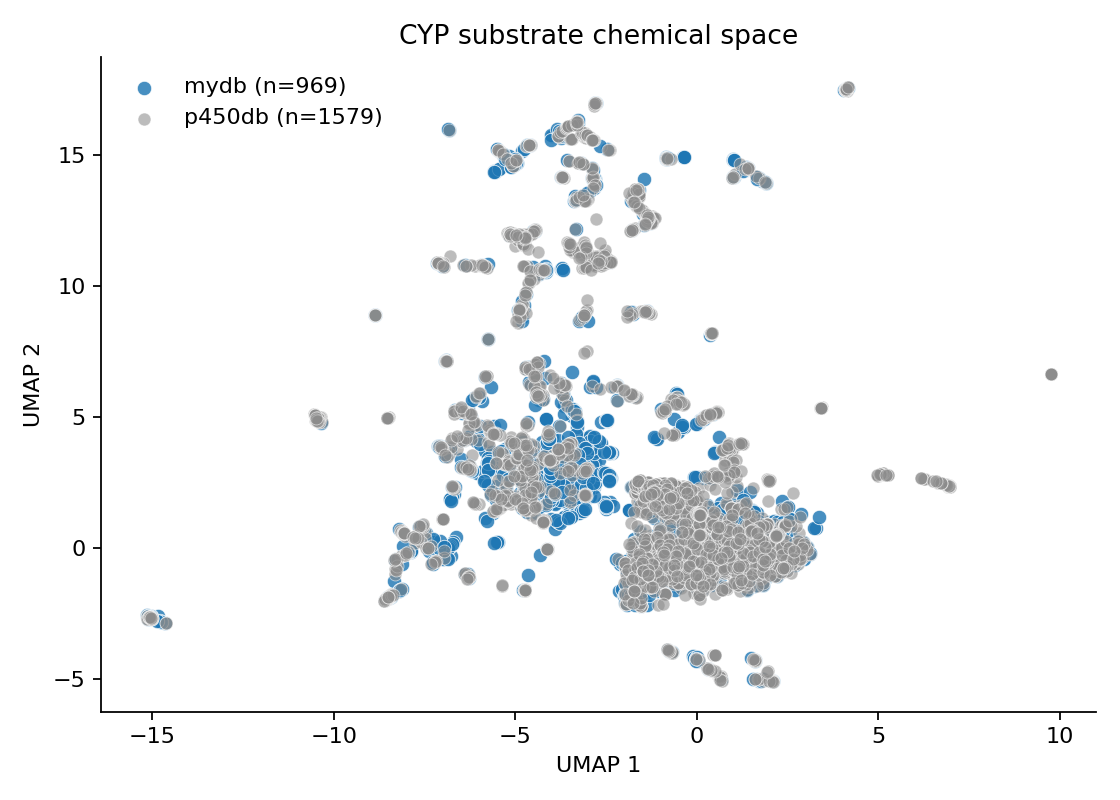
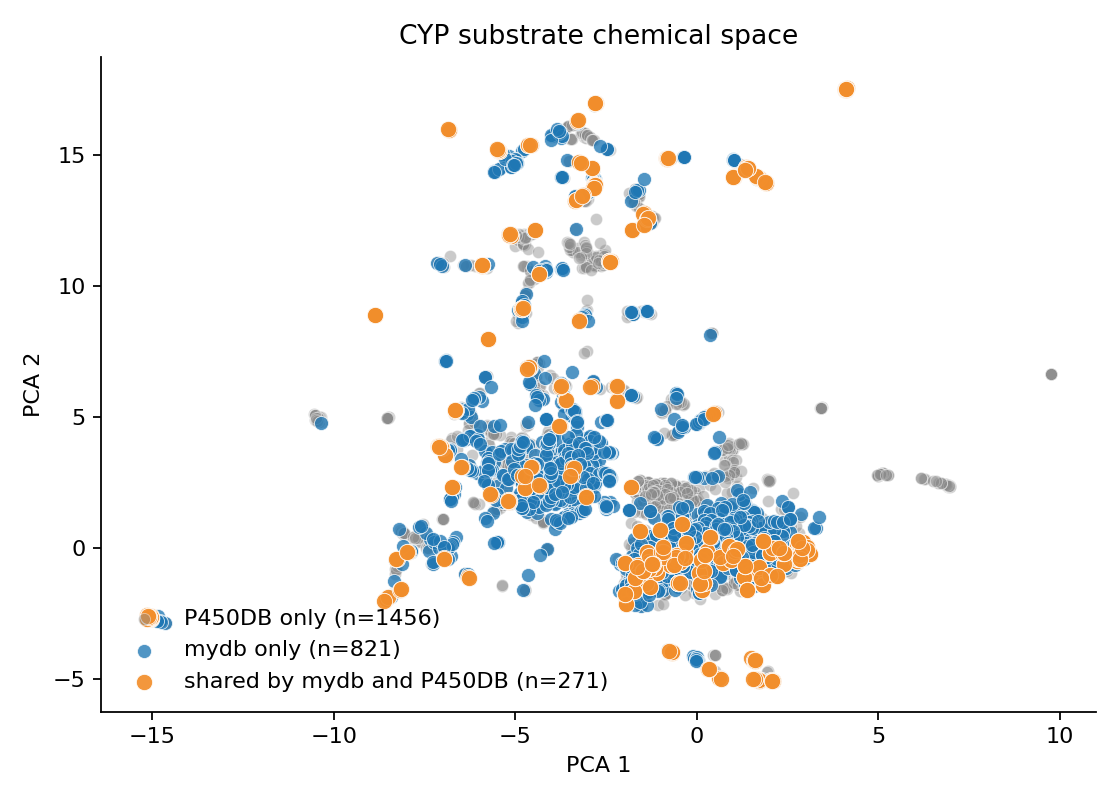
feat: highlight shared compounds in PCA demo plot

diff --git a/src/cypchemspace/visualize.py b/src/cypchemspace/visualize.py
@@ -14,7 +14,14 @@ import pandas as pd
 LABEL_COLORS = {
     "mydb": "#1f77b4",
     "p450db": "#8c8c8c",
+    "shared": "#f28e2b",
 }
+
+PLOT_LAYERS = (
+    ("p450db", "P450DB only", 30, 0.46, 1),
+    ("mydb", "mydb only", 40, 0.78, 2),
+    ("shared", "shared by mydb and P450DB", 54, 0.92, 3),
+)
 
 
 def plot_embedding(
@@ -24,8 +31,10 @@ def plot_embedding(
     y_col: str = "umap_y",
     label_col: str = "label",
     title: str = "CYP substrate chemical space",
+    x_label: str = "UMAP 1",
+    y_label: str = "UMAP 2",
 ) -> Path:
-    """Write a publication-style scatter plot for the two-class embedding."""
+    """Write a scatter plot with shared compounds drawn on the top layer."""
 
     for column in (x_col, y_col, label_col):
         if column not in table.columns:
@@ -34,25 +43,60 @@ def plot_embedding(
     output = Path(output_path)
     output.parent.mkdir(parents=True, exist_ok=True)
 
+    plot_table = table.copy()
+    plot_table["_plot_group"] = assign_plot_groups(plot_table, label_col=label_col)
+
     fig, ax = plt.subplots(figsize=(7, 5), dpi=160)
-    for label, group in table.groupby(label_col):
+    for group_name, legend_label, size, alpha, zorder in PLOT_LAYERS:
+        group = plot_table[plot_table["_plot_group"] == group_name]
+        if group.empty:
+            continue
         ax.scatter(
             group[x_col],
             group[y_col],
-            s=42 if label == "mydb" else 34,
-            c=LABEL_COLORS.get(str(label), "#333333"),
-            label=f"{label} (n={len(group)})",
-            alpha=0.82 if label == "mydb" else 0.58,
+            s=size,
+            c=LABEL_COLORS[group_name],
+            label=f"{legend_label} (n={len(group)})",
+            alpha=alpha,
             edgecolors="white",
             linewidths=0.4,
+            zorder=zorder,
         )
 
     ax.set_title(title)
-    ax.set_xlabel("UMAP 1")
-    ax.set_ylabel("UMAP 2")
+    ax.set_xlabel(x_label)
+    ax.set_ylabel(y_label)
     ax.legend(frameon=False)
     ax.spines[["top", "right"]].set_visible(False)
     fig.tight_layout()
     fig.savefig(output)
     plt.close(fig)
     return output
+
+
+def assign_plot_groups(table: pd.DataFrame, label_col: str = "label") -> pd.Series:
+    """Assign plotting groups so shared compounds can be highlighted.
+
+    Shared compounds are identified by `std_inchikey` when the same key appears
+    under both `mydb` and `p450db`. If that column is absent, rows fall back to
+    their source label.
+    """
+
+    labels = table[label_col].astype(str).str.lower()
+    groups = labels.where(labels.isin(["mydb", "p450db"]), "p450db")
+
+    if "std_inchikey" not in table.columns:
+        return groups
+
+    keys = table["std_inchikey"].astype(str).str.strip()
+    valid = keys != ""
+    label_sets = labels[valid].groupby(keys[valid]).agg(lambda values: set(values))
+    shared_keys = {
+        key
+        for key, label_set in label_sets.items()
+        if {"mydb", "p450db"}.issubset(label_set)
+    }
+    if not shared_keys:
+        return groups
+
+    return groups.mask(keys.isin(shared_keys), "shared")

diff --git a/tests/test_visualize.py b/tests/test_visualize.py
@@ -1,0 +1,16 @@
+import pandas as pd
+
+from cypchemspace.visualize import assign_plot_groups
+
+
+def test_assign_plot_groups_marks_shared_inchikey_rows():
+    table = pd.DataFrame(
+        {
+            "std_inchikey": ["SHARED", "SHARED", "MYDB_ONLY", "P450_ONLY"],
+            "label": ["mydb", "p450db", "mydb", "p450db"],
+        }
+    )
+
+    groups = assign_plot_groups(table)
+
+    assert groups.tolist() == ["shared", "shared", "mydb", "p450db"]

diff --git a/src/cypchemspace/cli.py b/src/cypchemspace/cli.py
@@ -70,7 +70,11 @@ def run_analyze(args: argparse.Namespace) -> int:
 
     embedded_table.to_csv(out_dir / "embedding.csv", index=False)
     write_summary_csv(summary, out_dir / "summary.csv")
-    plot_embedding(embedded_table, out_dir / "cypchemspace_umap.png")
+    if args.embedding_method == "pca":
+        x_label, y_label = "PCA 1", "PCA 2"
+    else:
+        x_label, y_label = "UMAP 1", "UMAP 2"
+    plot_embedding(embedded_table, out_dir / "cypchemspace_umap.png", x_label=x_label, y_label=y_label)
 
     print(f"Wrote {out_dir / 'embedding.csv'}")
     print(f"Wrote {out_dir / 'summary.csv'}")

diff --git a/README.md b/README.md
@@ -61,6 +61,10 @@ Expected outputs:
 - `results/demo_clean_2548_128bit_pca_perm19/summary.csv`
 - `results/demo_clean_2548_128bit_pca_perm19/cypchemspace_umap.png`
 
+In the live PCA figure, points shared by both databases are drawn in orange on
+the top layer, `mydb`-only points are drawn in blue on the middle layer, and
+`P450DB`-only points are drawn in gray on the bottom layer.
+
 The small 12-row teaching toy table is still available as
 `examples/example_data/cyp_substrates_demo.csv` for unit-scale experiments.
 
@@ -104,6 +108,10 @@ final project interpretation.
 ## Result Interpretation
 
 The kNN permutation test asks whether `mydb` compounds have more `mydb` neighbors than expected after random label shuffling. A positive `delta` and a low empirical p-value support local enrichment, but the result should be reported as a fingerprint-neighborhood signal, not proof of absolute class separation.
+
+The scatter plot uses draw order deliberately: gray `P450DB` background first,
+blue `mydb` points second, and orange shared compounds last. This makes the
+database-overlap points visible even when they fall inside dense regions.
 
 ## Limitations
 

diff --git a/docs/video_recording_guide.md b/docs/video_recording_guide.md
@@ -238,7 +238,11 @@ Wrote results\demo_clean_2548_128bit_pca_perm19\cypchemspace_umap.png
 
 建议解说：
 
-> 这张图是二维化学空间可视化。它帮助我们直观看 mydb 和 p450db 在二维空间中的分布。需要注意的是，二维图本身不是统计证明，因为 PCA 或 UMAP 都会压缩高维信息。真正的统计判断要结合刚才的 kNN permutation 表。
+> 这张图是本次现场演示生成的 PCA 化学空间图。为了让不同来源的点更容易看清，我把绘图顺序固定成三层：P450DB-only 是灰色，放在底层；mydb-only 是蓝色，放在中层；两个数据库共有的底物是橙色，放在最上层。
+>
+> 这里“共有”是按标准化 InChIKey 判断的：如果同一个 InChIKey 同时出现在 mydb 和 P450DB 标签下，就把它标为 shared。把 shared 点放在顶层，是为了避免它们在密集区域里被背景点遮住。
+>
+> 需要注意的是，二维图本身不是统计证明，因为 PCA 或 UMAP 都会压缩高维信息。真正的统计判断要结合刚才的 kNN permutation 表。
 
 ### 片段 7：展示项目实际全量参考结果
 

diff --git a/docs/tutorial.md b/docs/tutorial.md
@@ -33,6 +33,11 @@ Open:
 - `results/demo_clean_2548_128bit_pca_perm19/summary.csv`
 - `results/demo_clean_2548_128bit_pca_perm19/cypchemspace_umap.png`
 
+The PCA figure draws `P450DB`-only points in gray on the bottom layer,
+`mydb`-only points in blue on the middle layer, and shared compounds in orange
+on the top layer. Shared compounds are detected by `std_inchikey` values that
+appear under both labels.
+
 The output can be compared with `results/full_clean_reference/`, which stores
 the full/reference project result produced with 5,000 permutations.
 

diff --git a/docs/final_report.md b/docs/final_report.md
@@ -90,6 +90,8 @@ cypchemspace analyze examples/example_data/clean_rescued_substrates_2548.csv --o
 - `summary.csv`
 - `cypchemspace_umap.png`
 
+现场 PCA 图采用固定图层顺序：`P450DB` only 点为灰色并置于底层，`mydb` only 点为蓝色并置于中层，两个数据库共有的底物按 `std_inchikey` 判断，使用橙色并置于顶层。这样可以避免 shared 底物被底层背景点遮挡。
+
 API 示例：
 
 ```python
@@ -142,6 +144,8 @@ python -m cypchemspace.cli analyze examples/example_data/clean_rescued_substrate
 | p_value | 0.05 |
 
 该演示使用 128-bit fingerprint、PCA 和 19 次置换，运行时间适合录屏现场复现。结果说明，在清洗后的 2,548 条底物记录中，`mydb` 类底物在 fingerprint 近邻空间中相对于随机标签置换表现出局部聚集。需要注意的是，19 次置换的经验 p 值分辨率较粗，因此它主要用于展示完整流程。
+
+现场演示图中，橙色点表示两个数据库共有的底物，绘制在最上层；蓝色点表示 `mydb` only 底物，绘制在中层；灰色点表示 `P450DB` only 背景底物，绘制在底层。该图层设计使共有底物在密集区域中仍然可见。
 
 项目实际全量/参考结果保存在 `results/full_clean_reference/`。其中 `combined_stats_results_perm5000.tsv` 使用 5,000 次置换，结果如下：
 

diff --git a/docs/slides_outline.md b/docs/slides_outline.md
@@ -32,7 +32,7 @@ cypchemspace analyze examples/example_data/clean_rescued_substrates_2548.csv --o
 
 ## Slide 8: Results
 
-Show the live demo `summary.csv` and `cypchemspace_umap.png`, then compare with `results/full_clean_reference/`.
+Show the live demo `summary.csv` and `cypchemspace_umap.png`. Explain the PCA plot layers: gray `P450DB` bottom, blue `mydb` middle, orange shared compounds top. Then compare with `results/full_clean_reference/`.
 
 ## Slide 9: Interpretation and Limitations
 

diff --git a/results/demo_clean_2548_128bit_pca_perm19/README.md b/results/demo_clean_2548_128bit_pca_perm19/README.md
@@ -16,6 +16,8 @@ recording:
 - embedding: PCA
 - kNN statistic: `k=15`
 - permutations: 19
+- figure layers: gray `P450DB` bottom, blue `mydb` middle, orange shared
+  compounds top
 
 The summary table records `delta = 0.1373273224340521` and `p_value = 0.05`.
 Because 19 permutations give coarse p-value resolution, use this as a live